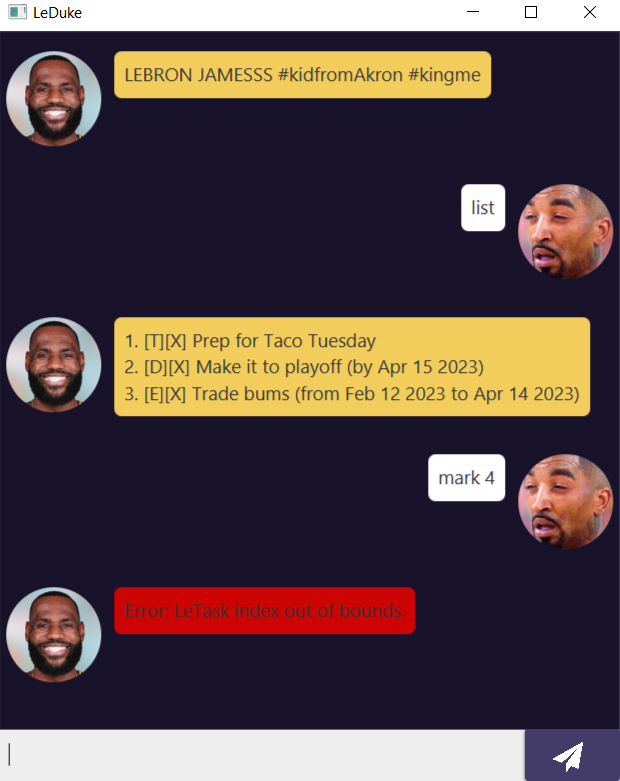
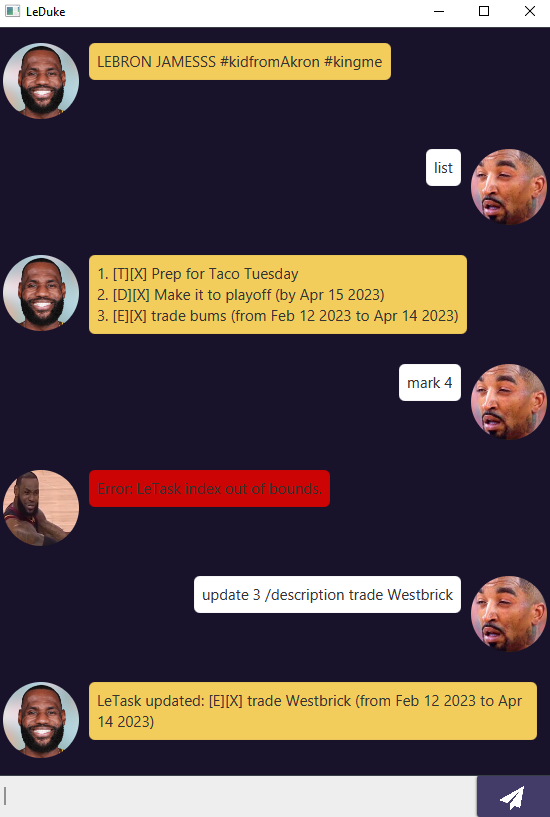
Add User Guide

diff --git a/src/main/java/duke/ui/MainWindow.java b/src/main/java/duke/ui/MainWindow.java
@@ -32,6 +32,7 @@ public class MainWindow extends AnchorPane {
 
     private Image userImage = new Image(this.getClass().getResourceAsStream("/images/DaSmith.jpg"));
     private Image dukeImage = new Image(this.getClass().getResourceAsStream("/images/DaLebron.png"));
+    private Image dukeImageError = new Image(this.getClass().getResourceAsStream("/images/DaLebronMad.png"));
 
     /**
      * Constructor for MainWindow class.
@@ -78,10 +79,11 @@ public class MainWindow extends AnchorPane {
         String response = duke.getResponse(input);
 
         boolean isError = (response.startsWith("Error: "));
+        Image dukeImg = isError ? dukeImageError : dukeImage;
 
         dialogContainer.getChildren().addAll(
                 DialogBox.getUserDialog(input, userImage),
-                DialogBox.getDukeDialog(response, dukeImage, isError)
+                DialogBox.getDukeDialog(response, dukeImg, isError)
         );
         userInput.clear();
 

diff --git a/src/main/java/duke/command/CommandUpdate.java b/src/main/java/duke/command/CommandUpdate.java
@@ -32,6 +32,6 @@ public class CommandUpdate extends Command {
     public String execute(TaskList tasks, Ui ui, Storage storage) throws DukeException {
         Task updatedTask = tasks.update(idx - 1, updateComponents);
         storage.save(tasks.getList());
-        return "Task updated: " + updatedTask;
+        return "LeTask updated: " + updatedTask;
     }
 }

diff --git a/README.md b/README.md
@@ -1,15 +1,35 @@
-# Duke project template
+# A User Guide to LeDuke
+- - - 
 
-This is a project template for a greenfield Java project. It's named after the Java mascot _Duke_. Given below are instructions on how to use it.
+> "I'm going to use all my tools, my God-given ability,
+> and make the best life I can with it. - Lebron James"
 
-## Setting up in Intellij
+One of the tools Lebron James mentioned is LeDuke, a **CLI-based task-management application** that
+allowed him to juggle the responsibilities of being the GOAT in basketball.
 
-Prerequisites: JDK 11, update Intellij to the most recent version.
+And he wants to share it with you.
 
-1. Open Intellij (if you are not in the welcome screen, click `File` > `Close Project` to close the existing project first)
-1. Open the project into Intellij as follows:
-   1. Click `Open`.
-   1. Select the project directory, and click `OK`.
-   1. If there are any further prompts, accept the defaults.
-1. Configure the project to use **JDK 11** (not other versions) as explained in [here](https://www.jetbrains.com/help/idea/sdk.html#set-up-jdk).<br>
-   In the same dialog, set the **Project language level** field to the `SDK default` option.
+## Quick Start
+- - -
+1. Install `Java 11`.
+2. Download LeDuke from here.
+3. Put the LeDuke `jar` file into your desired folder.
+4. Run java `-jar .\LeDuke.jar` to start the app.
+
+
+## Features
+- - -
+- `LIST` out the tasks you have
+- Add different types of tasks, including:
+   - `TODO`, a task that need to be done
+   - `DEADLINE`, a task that has a deadline date
+   - `EVENT`, a task that has a start and end date
+- `MARK` tasks as done/undone
+- `DELETE` unwanted tasks
+- `FIND` tasks based on keywords
+- `UPDATE` existing tasks
+
+## Interface
+- - -
+
+![LeDuke](Ui.png)

diff --git a/docs/README.md b/docs/README.md
@@ -1,29 +1,36 @@
-# User Guide
+# A User Guide to LeDuke
+- - - 
+
+> "I'm going to use all my tools, my God-given ability, 
+> and make the best life I can with it. - Lebron James" 
+
+One of the tools Lebron James mentioned is LeDuke, a **CLI-based task-management application** that 
+allowed him to juggle the responsibilities of being the GOAT in basketball.
+
+And he wants to share it with you.
+
+## Quick Start
+- - -
+1. Install `Java 11`.
+2. Download LeDuke from here.
+3. Put the LeDuke `jar` file into your desired folder.
+4. Run java `-jar .\LeDuke.jar` to start the app.
+
 
 ## Features 
+- - -
+- `LIST` out the tasks you have
+- Add different types of tasks, including:
+  - `TODO`, a task that need to be done
+  - `DEADLINE`, a task that has a deadline date
+  - `EVENT`, a task that has a start and end date 
+- `MARK` tasks as done/undone
+- `DELETE` unwanted tasks
+- `FIND` tasks based on keywords
+- `UPDATE` existing tasks
 
-### Feature-ABC
+## Interface
+- - -
 
-Description of the feature.
+![LeDuke](Ui.png)
 
-### Feature-XYZ
-
-Description of the feature.
-
-## Usage
-
-### `Keyword` - Describe action
-
-Describe the action and its outcome.
-
-Example of usage: 
-
-`keyword (optional arguments)`
-
-Expected outcome:
-
-Description of the outcome.
-
-```
-expected output
-```
